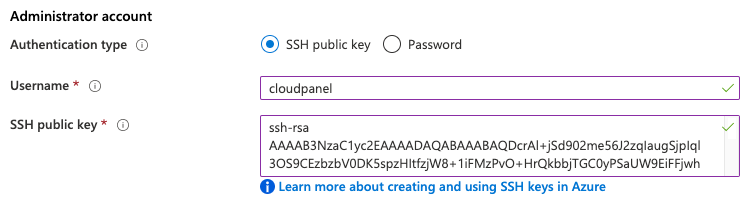
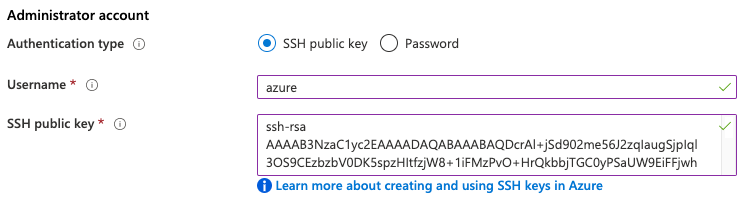
.

diff --git a/cloudpanel-ce/docs/getting-started-installation-microsoft-azure.md b/cloudpanel-ce/docs/getting-started-installation-microsoft-azure.md
@@ -94,7 +94,7 @@ Click on the button **Add** to create the **security rule**.
 For installing the CloudPanel, we first need to login with **SSH**. <br />
 
 ```bash
-ssh -i path_to_your_private_key cloudpanel@staticIpAddress
+ssh -i path_to_your_private_key azure@staticIpAddress
 ```
 
 The **static IP Address** can be found on the instance overview, it's called **Public IP address**.
